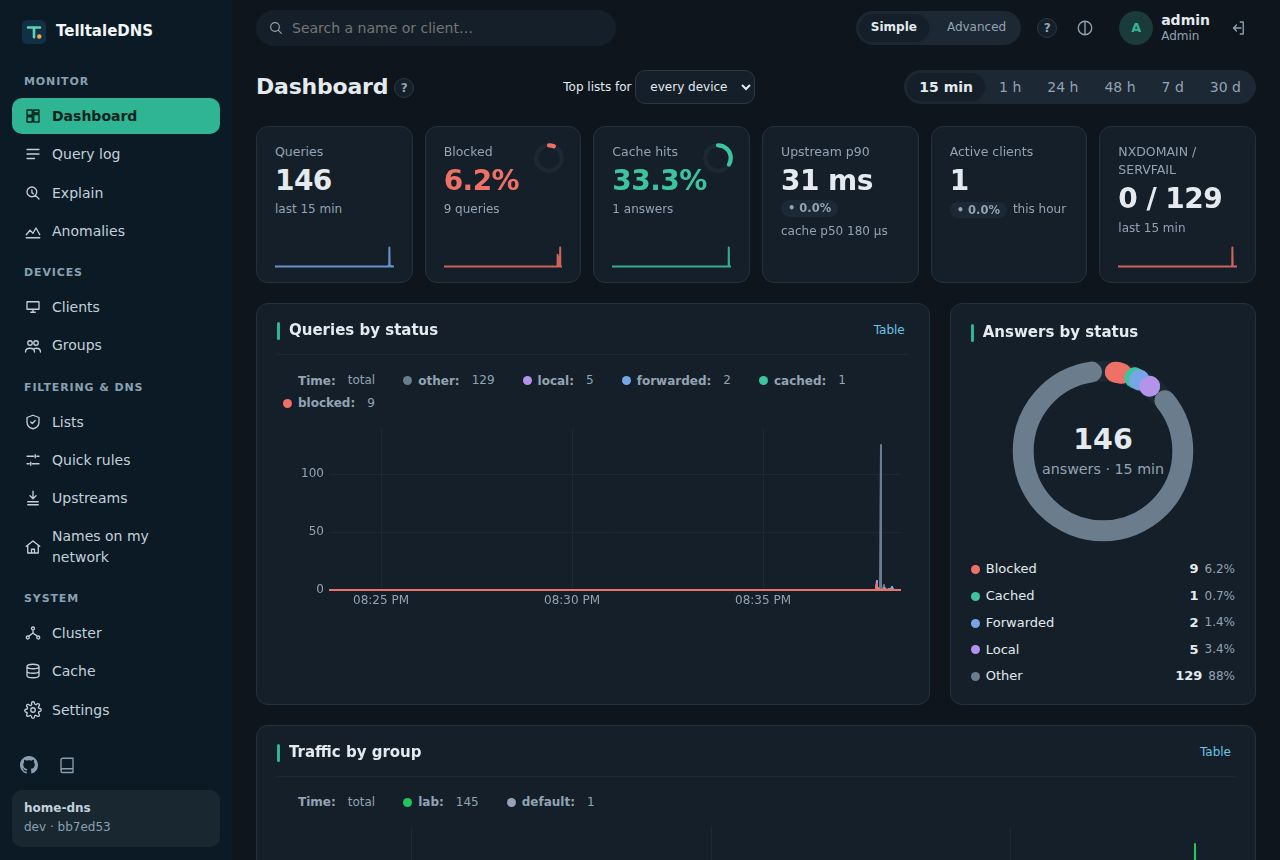
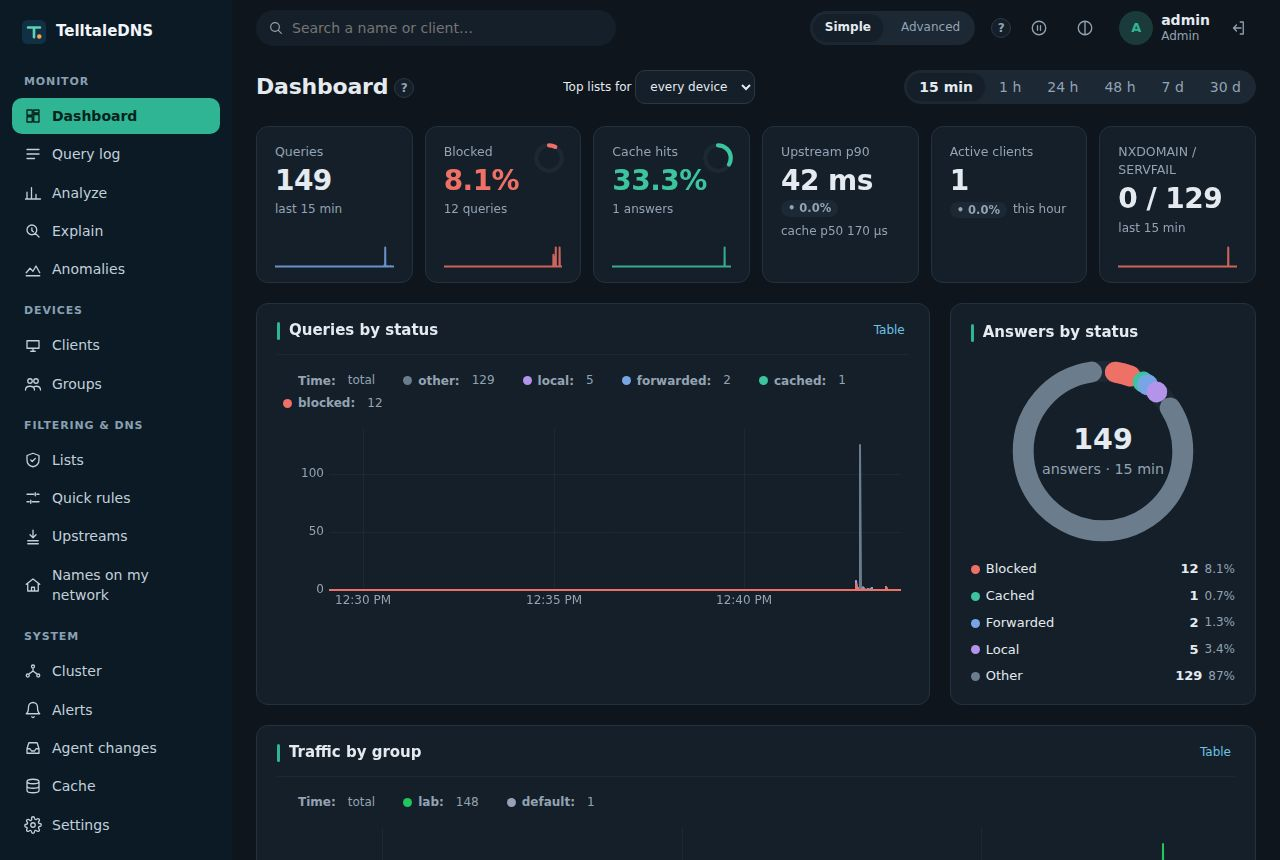
feat(ui): the dashboard shows every node or one at a time, and top clients' groups [CLU-002, OBS-009]
In a cluster, the dashboard's new Showing selector switches between every node
together (the default), one node, or one site's nodes (for resolver pods,
which come and go). The summary, time series, top lists, and latency tables
follow it through the API's existing scope parameter; the choice is remembered
in the browser. Upstream health is each node's own, so when another node is selected
the Upstreams card says it shows this node's view.

Top clients now show their group chips in the group's color (ADR-050), from
the groups the API already returned. Docs and the site's dashboard screenshots
are updated; the Playwright suite passes (37).

Claude-Session: https://claude.ai/code/session_01VwxbSCqhHCSxjCwuuUqexg

diff --git a/ui/src/pages/Dashboard.svelte b/ui/src/pages/Dashboard.svelte
@@ -63,27 +63,66 @@
   let groups = $state<S['GroupInfo'][]>([]);
   // ADR-050 — the top lists for one kind of device ('' = everyone).
   let group = $state('');
+  const groupColor = (n: string) => groups.find((g) => g.name === n)?.color ?? 'var(--muted)';
+  // REQ: CLU-002 — the whole cluster ('' ), one node (`node:<id>`), or one site's nodes
+  // (`site:<name>`). Remembered in this browser only.
+  let nodes = $state<S['ClusterView']['nodes']>([]);
+  let scope = $state(remembered());
+  function remembered(): string {
+    try {
+      return localStorage.getItem('dashboard.scope') ?? '';
+    } catch {
+      return '';
+    }
+  }
+  $effect(() => {
+    try {
+      localStorage.setItem('dashboard.scope', scope);
+    } catch {
+      // Private windows and blocked storage: the choice just isn't remembered.
+    }
+  });
+  const nodeLabel = (n: S['ClusterView']['nodes'][number]) =>
+    (n.ephemeral ? `${n.site} pod ${n.pod ?? n.nodeId.slice(0, 8)}` : n.site) +
+    (n.role.includes('primary') ? ' (primary)' : '') +
+    (n.thisNode ? ' · this node' : '');
+  // Sites with resolver pods get a choice of their own: the pods come and go.
+  const podSites = $derived([...new Set(nodes.filter((n) => n.ephemeral).map((n) => n.site))]);
+  const scopeLabel = $derived(
+    scope.startsWith('node:')
+      ? (nodes.find((n) => `node:${n.nodeId}` === scope)?.site ?? 'one node')
+      : scope.startsWith('site:')
+        ? `site ${scope.slice(5)}`
+        : 'every node',
+  );
+  // Upstream health is each node's own: say whose when another node is shown.
+  const otherNode = $derived(
+    scope !== '' && !(scope.startsWith('node:') && nodes.find((n) => `node:${n.nodeId}` === scope)?.thisNode),
+  );
   let error = $state<unknown>(null);
 
   async function load() {
     const r = range;
     try {
       const g = group || undefined;
-      const [s, ts, d, b, c, u, st, lp, gs] = await Promise.all([
-        api.summary(r.summary),
-        api.timeseries({ from: r.from, step: r.step }),
-        api.top('domains', 10, undefined, g),
-        api.top('blocked', 10, undefined, g),
-        api.top('clients', 10, undefined, g),
+      const sc = scope || undefined;
+      const [s, ts, d, b, c, u, st, lp, gs, cl] = await Promise.all([
+        api.summary(r.summary, undefined, sc),
+        api.timeseries({ from: r.from, step: r.step, scope: sc }),
+        api.top('domains', 10, undefined, g, sc),
+        api.top('blocked', 10, undefined, g, sc),
+        api.top('clients', 10, undefined, g, sc),
         api.upstreams(),
-        api.latency('stage'),
-        api.latency('path'),
+        api.latency('stage', sc),
+        api.latency('path', sc),
         api.groups(),
+        api.cluster().catch(() => null),
       ]);
       groups = gs.items;
+      nodes = cl?.enabled ? cl.nodes : [];
       summary = s;
       const mins = Math.round(r.secs / 60);
-      previous = await api.summary(`-${2 * mins}m`, `-${mins}m`).catch(() => null);
+      previous = await api.summary(`-${2 * mins}m`, `-${mins}m`, sc).catch(() => null);
       buckets = dense(ts.items, { second: 1, minute: 60, hour: 3600, day: 86400 }[r.step], r.secs);
       topDomains = d.items;
       topBlocked = b.items;
@@ -125,6 +164,7 @@
   $effect(() => {
     void range;
     void group;
+    void scope;
     return poll(load, range.step === 'second' ? 5000 : 15000);
   });
 
@@ -202,6 +242,17 @@
 <div class="page">
   <div class="page-head">
     <h1>Dashboard<HelpButton id="how-it-works" /></h1>
+    {#if nodes.length > 1}
+      <!-- REQ: CLU-002 — every node together, or one node (or site) at a time. -->
+      <label class="small">
+        Showing
+        <select bind:value={scope} aria-label="Nodes">
+          <option value="">every node</option>
+          {#each nodes as n (n.nodeId)}<option value={`node:${n.nodeId}`}>{nodeLabel(n)}</option>{/each}
+          {#each podSites as s (s)}<option value={`site:${s}`}>site {s} (all its nodes)</option>{/each}
+        </select>
+      </label>
+    {/if}
     {#if groups.length > 1}
       <label class="small">
         Top lists for
@@ -228,7 +279,7 @@
 
   <div class="kpis">
     <!-- More blocking or more queries isn't good or bad, so those changes stay neutral. -->
-    <Kpi label="Queries" value={short(summary?.queries)} sub={`last ${range.label}`} delta={change(summary?.queries, previous?.queries)} spark={sparkTotal} sparkColor="--s-forwarded" />
+    <Kpi label="Queries" value={short(summary?.queries)} sub={`last ${range.label}${scope ? ` · ${scopeLabel}` : ''}`} delta={change(summary?.queries, previous?.queries)} spark={sparkTotal} sparkColor="--s-forwarded" />
     <Kpi label="Blocked" value={pct(summary?.blockedPercent)} sub={`${short(summary?.blocked)} queries`} tone="bad" delta={change(summary?.blockedPercent, previous?.blockedPercent)} spark={sparkBlocked} sparkColor="--s-blocked" ring={summary?.blockedPercent} />
     <Kpi label="Cache hits" value={pct(summary?.cacheHitPercent)} sub={`${short(summary?.cached)} answers`} tone="ok" delta={change(summary?.cacheHitPercent, previous?.cacheHitPercent)} good="up" spark={sparkCached} sparkColor="--s-cached" ring={summary?.cacheHitPercent} />
     <Kpi label="Upstream p90" value={ms(upstreamP90?.p90Ms)} sub={cacheP50 ? `cache p50 ${ms(cacheP50.p50Ms)}` : 'this hour'} delta={change(upstreamP90?.p90Ms, prevP90?.p90Ms)} good="down" />
@@ -279,7 +330,7 @@
     </section>
 
     <section class="card">
-      <div class="card-head"><h2>Upstreams</h2><a href={href('/upstreams')} class="small">Details</a></div>
+      <div class="card-head"><h2>Upstreams{#if otherNode} <span class="muted small">(as this node sees them)</span>{/if}</h2><a href={href('/upstreams')} class="small">Details</a></div>
       {#if upstreams.length === 0}
         <p class="empty">No upstreams configured.</p>
       {:else}
@@ -319,6 +370,8 @@
                 <div class="row">
                   {#if t.title === 'Top clients'}
                     <span class="name"><ClientChip ip={i.key} name={i.name} onchanged={() => void load()} /></span>
+                    <!-- ADR-050 — the groups whose settings apply to the device. -->
+                    {#each i.groups ?? [] as g (g)}<span class="group-chip small" style:--gc={groupColor(g)}>{g}</span>{/each}
                   {:else}
                     <a class="name" href={t.link(i.key)}>{i.key}</a>
                   {/if}

diff --git a/ui/src/lib/api.ts b/ui/src/lib/api.ts
@@ -122,11 +122,14 @@ export const api = {
   rejectPlan: (id: string) => post<S['Plan']>(`/plans/${encodeURIComponent(id)}/reject`),
   // REQ: OPS-004 — "Check now" (admin).
   checkUpdates: () => post<S['UpdateStatus']>('/system/update-check'),
-  summary: (from = '-24h', to?: string) => get<S['Summary']>('/stats/summary', { from, to }),
-  timeseries: (q: { from?: string; step?: S['Step'] }) => get<S['Items_TimeBucket']>('/stats/timeseries', q),
-  top: (kind: S['TopKind'], limit = 10, client?: string, group?: string) =>
-    get<S['Items_TopItem']>('/stats/top', { kind, limit, client, group }),
-  latency: (by: S['LatencyBy']) => get<S['Items_LatencyRow']>('/stats/latency', { by }),
+  // `scope`: `cluster` (default, every node), `node:<id>`, or `site:<name>` (CLU-002).
+  summary: (from = '-24h', to?: string, scope?: string) =>
+    get<S['Summary']>('/stats/summary', { from, to, scope }),
+  timeseries: (q: { from?: string; step?: S['Step']; scope?: string }) =>
+    get<S['Items_TimeBucket']>('/stats/timeseries', q),
+  top: (kind: S['TopKind'], limit = 10, client?: string, group?: string, scope?: string) =>
+    get<S['Items_TopItem']>('/stats/top', { kind, limit, client, group, scope }),
+  latency: (by: S['LatencyBy'], scope?: string) => get<S['Items_LatencyRow']>('/stats/latency', { by, scope }),
   queries: (q: Query) => get<S['QueryPage']>('/queries', q),
   explain: (q: { name: string; client?: string; qtype?: string }) => get<S['Explanation']>('/explain', q),
   lists: () => get<S['Items_ListInfo']>('/lists'),

diff --git a/docs/running.md b/docs/running.md
@@ -1889,7 +1889,7 @@ Open `http://<server>:8053/` in a browser. On first start it asks for the setup 
 
 | Page | What it shows |
 |---|---|
-| Dashboard | queries, blocked %, cache hits, upstream latency, active clients; queries over time by status (15 min to 48 h); where time goes; top domains, blocked names, and clients (click through to the query log); upstream share and health |
+| Dashboard | queries, blocked %, cache hits, upstream latency, active clients; queries over time by status (15 min to 48 h); where time goes; top domains, blocked names, and clients with their groups (click through to the query log); upstream share and health. In a cluster, **Showing** switches between every node together, one node, or one site's nodes (remembered in your browser) |
 | Query log | search by name (contains, exact, subdomains, wildcard, regex), client, status, type, response code, slowness, and time; each row shows how long it took and how much of that was the upstream; **Why?** explains the decision. Filters live in the URL, so a search can be bookmarked or shared. **Live** streams new matching queries as they happen (the newest 500 stay on screen) |
 | Explain | why any name is or isn't blocked for any device |
 | Clients, Groups, Lists, Upstreams | devices seen and configured; groups and their lists; list download state and size; upstream health (circuit breaker), traffic, failures by kind (timeouts, connection errors, SERVFAIL, ...), and latency |
